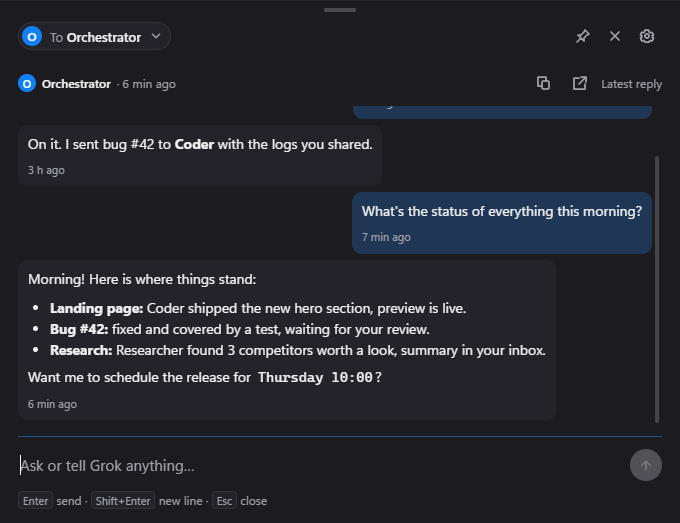
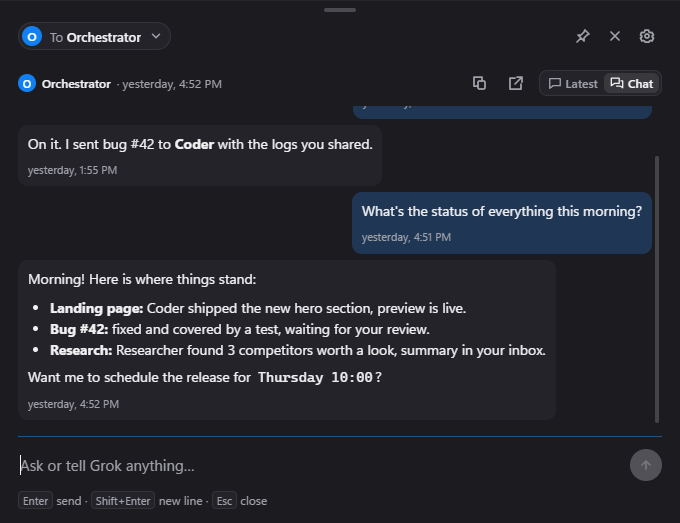
Replace the reply toggle with a Latest / Chat switch
The old text button showed the view you would switch to, not the one
you were in. Now both views are always visible as a segmented control
with the current one selected, plus Ctrl+L to toggle. Portuguese labels
are Resposta / Conversa. README screenshots refreshed.
Implemented by Codex; review and label tweak by Claude Code.

diff --git a/src/prompt/prompt.js b/src/prompt/prompt.js
@@ -94,7 +94,10 @@ const responseBody = document.getElementById('response-body');
 const responseTime = document.getElementById('response-time');
 const responseName = document.getElementById('response-name');
 const responseAvatar = document.getElementById('response-avatar');
-const conversationToggle = document.getElementById('conversation-toggle');
+const replyView = document.getElementById('reply-view');
+const latestView = document.getElementById('reply-latest');
+const chatView = document.getElementById('reply-chat');
+const replyViewIndicator = replyView.querySelector('.reply-view-indicator');
 const expandResponse = document.getElementById('expand-response');
 const emptyState = document.getElementById('empty-state');
 const emptyMessage = document.getElementById('empty-message');
@@ -366,6 +369,17 @@ function startRelativeTimer() {
   if (!document.hidden) relativeTimer = setInterval(updateTimes, 30000);
 }
 
+function positionReplyViewIndicator() {
+  if (response.hidden) return;
+  const selected = conversationView ? chatView : latestView;
+  replyViewIndicator.style.width = `${selected.offsetWidth}px`;
+  replyViewIndicator.style.transform = `translateX(${selected.offsetLeft}px)`;
+}
+
+const replyViewObserver = new ResizeObserver(positionReplyViewIndicator);
+replyViewObserver.observe(latestView);
+replyViewObserver.observe(chatView);
+
 function renderConversation(animate = false) {
   response.hidden = !conversation.ok || !conversation.latest;
   responseBody.replaceChildren();
@@ -374,8 +388,11 @@ function renderConversation(animate = false) {
   emptyMessage.textContent = grokBotFound ? t('prompt.empty', { bot: responseName.textContent }) : t('prompt.notFound');
   responseAvatar.textContent = destinationDetails.botInitial || 'G';
   responseAvatar.style.backgroundColor = destinationDetails.botColor || '#1080f3';
-  conversationToggle.textContent = conversationView ? t('prompt.latest') : t('prompt.conversation');
-  conversationToggle.setAttribute('aria-pressed', String(conversationView));
+  latestView.setAttribute('aria-checked', String(!conversationView));
+  latestView.tabIndex = conversationView ? -1 : 0;
+  chatView.setAttribute('aria-checked', String(conversationView));
+  chatView.tabIndex = conversationView ? 0 : -1;
+  positionReplyViewIndicator();
   responseBody.classList.toggle('collapsed', !userSized && !expanded && !conversationView);
   responseBody.classList.toggle('expanded', !userSized && (expanded || conversationView));
   expandResponse.hidden = userSized || conversationView;
@@ -468,9 +485,21 @@ function renderConversation(animate = false) {
   updateTimes();
 }
 
-conversationToggle.addEventListener('click', () => {
-  conversationView = !conversationView;
+function selectReplyView(showChat) {
+  if (conversationView === showChat) return;
+  conversationView = showChat;
   renderConversation();
+  if (replyView.contains(document.activeElement)) {
+    (showChat ? chatView : latestView).focus({ preventScroll: true });
+  }
+}
+
+latestView.addEventListener('click', () => selectReplyView(false));
+chatView.addEventListener('click', () => selectReplyView(true));
+replyView.addEventListener('keydown', (event) => {
+  if (event.key !== 'ArrowLeft' && event.key !== 'ArrowRight') return;
+  event.preventDefault();
+  selectReplyView(event.target === latestView);
 });
 expandResponse.addEventListener('click', () => {
   expanded = !expanded;
@@ -746,6 +775,10 @@ document.addEventListener('keydown', (event) => {
     event.preventDefault();
     closeTemplates(false);
     picker.open();
+  } else if (event.ctrlKey && event.key.toLowerCase() === 'l' && !event.altKey && !event.shiftKey && !event.metaKey
+      && !response.hidden && !pickerContainer.querySelector('.bot-picker-popover:not([hidden])')) {
+    event.preventDefault();
+    if (!event.repeat) selectReplyView(!conversationView);
   } else if (event.ctrlKey && event.key.toLowerCase() === 't' && !event.altKey && !event.shiftKey) {
     event.preventDefault();
     if (templateMenu.hidden) openTemplates();

diff --git a/src/prompt/prompt.html b/src/prompt/prompt.html
@@ -46,7 +46,17 @@
         <button id="open-bot" class="icon-button" type="button" data-i18n-aria-label="prompt.openConversation" aria-label="Open conversation in Grok Bot" data-i18n-title="prompt.openConversation" title="Open conversation in Grok Bot">
           <svg width="16" height="16" viewBox="0 0 16 16" fill="none" stroke="currentColor" aria-hidden="true"><path d="M9 2h5v5m0-5L7 9m0-6H2v11h11V9"/></svg>
         </button>
-        <button id="conversation-toggle" class="text-button" type="button" aria-pressed="false" data-i18n="prompt.conversation">Conversation</button>
+        <div id="reply-view" role="radiogroup" data-i18n-aria-label="prompt.replyView" aria-label="Reply view">
+          <span class="reply-view-indicator" aria-hidden="true"></span>
+          <button id="reply-latest" type="button" role="radio" aria-checked="true" tabindex="0" data-i18n-title="prompt.replyView.latestHelp" title="Latest reply (Ctrl+L)">
+            <svg width="14" height="14" viewBox="0 0 16 16" aria-hidden="true"><path d="M2 3h12v8H6l-4 3Z"/></svg>
+            <span data-i18n="prompt.replyView.latest">Latest</span>
+          </button>
+          <button id="reply-chat" type="button" role="radio" aria-checked="false" tabindex="-1" data-i18n-title="prompt.replyView.chatHelp" title="Recent conversation (Ctrl+L)">
+            <svg width="14" height="14" viewBox="0 0 16 16" aria-hidden="true"><path d="M1.5 2.5h9v6H5l-3.5 2.5Zm11 3h2v8l-3-2H7.5"/></svg>
+            <span data-i18n="prompt.replyView.chat">Chat</span>
+          </button>
+        </div>
       </div>
       <div id="response-body" class="collapsed"></div>
       <button id="expand-response" class="text-button" type="button" aria-expanded="false" data-i18n="prompt.more">Show more</button>

diff --git a/src/prompt/prompt.css b/src/prompt/prompt.css
@@ -45,7 +45,13 @@ footer { display: flex; align-items: center; gap: 10px; margin-top: 10px; color:
 #response-time { white-space: nowrap; }
 .text-button { padding: 3px 0; border: 0; background: transparent; color: var(--secondary); font-size: 12px; cursor: pointer; }
 .text-button:hover { color: var(--text); }
-#conversation-toggle { flex-shrink: 0; }
+#reply-view { position: relative; isolation: isolate; display: flex; flex-shrink: 0; height: 26px; margin-left: 2px; padding: 2px; border: 1px solid var(--border); border-radius: 8px; background: var(--surface); }
+#reply-view button { position: relative; z-index: 1; display: flex; align-items: center; gap: 4px; padding: 0 6px; border: 0; border-radius: 6px; background: transparent; color: var(--secondary); font-size: 12px; font-weight: 500; white-space: nowrap; }
+#reply-view button[aria-checked="true"], #reply-view button:hover { color: var(--text); }
+#reply-view button:focus-visible { outline-offset: 0; z-index: 2; }
+#reply-view svg { flex-shrink: 0; fill: none; stroke: currentColor; stroke-width: 1.5; stroke-linecap: round; stroke-linejoin: round; }
+.reply-view-indicator { position: absolute; inset: 2px auto 2px 0; border-radius: 6px; background: color-mix(in srgb, var(--text) 10%, var(--surface)); transition: transform var(--transition), width var(--transition); pointer-events: none; }
+@media (prefers-color-scheme: light) { .reply-view-indicator { background: white; box-shadow: var(--shadow-sm); } }
 #response-body { line-height: 1.55; font-size: 14px; overflow-wrap: anywhere; }
 #response-body.collapsed { max-height: 105px; overflow: hidden; }
 #response-body.collapsed.overflowing { mask-image: linear-gradient(to bottom, black 65%, transparent); }

diff --git a/src/lib/i18n.js b/src/lib/i18n.js
@@ -15,8 +15,11 @@
     'prompt.response': "Bot reply",
     'prompt.copy': "Copy reply",
     'prompt.openConversation': "Open conversation in Grok Bot",
-    'prompt.conversation': "Conversation",
-    'prompt.latest': "Latest reply",
+    'prompt.replyView': "Reply view",
+    'prompt.replyView.latest': "Latest",
+    'prompt.replyView.latestHelp': "Latest reply (Ctrl+L)",
+    'prompt.replyView.chat': "Chat",
+    'prompt.replyView.chatHelp': "Recent conversation (Ctrl+L)",
     'prompt.more': "Show more",
     'prompt.less': "Show less",
     'prompt.message': "Message to Grok Bot",
@@ -270,8 +273,11 @@
     'prompt.response': "Resposta do bot",
     'prompt.copy': "Copiar resposta",
     'prompt.openConversation': "Abrir conversa no Grok Bot",
-    'prompt.conversation': "Conversa",
-    'prompt.latest': "Última resposta",
+    'prompt.replyView': "Visualização da resposta",
+    'prompt.replyView.latest': "Resposta",
+    'prompt.replyView.latestHelp': "Última resposta (Ctrl+L)",
+    'prompt.replyView.chat': "Conversa",
+    'prompt.replyView.chatHelp': "Conversa recente (Ctrl+L)",
     'prompt.more': "Mostrar mais",
     'prompt.less': "Mostrar menos",
     'prompt.message': "Mensagem para o Grok Bot",

diff --git a/.handoff/TASK.md b/.handoff/TASK.md
@@ -1,51 +1,39 @@
-# Task 21 — Automatic updates with electron-updater (replaces the opt-in "check for updates")
+# Task 22 — Replace the "Conversation / Latest reply" toggle with a clear segmented control
 
-Read `AGENTS.md` first. `electron-updater@6.8.12` is **already installed** by Claude Code as a runtime dependency (reason: in-app automatic updates from GitHub Releases). Record that line in RESULT.md. Do not add anything else.
+Read `AGENTS.md` first.
+
+## Problem
+In the prompt's reply header there is a text button that flips between "Conversation" and "Latest reply". It shows the **mode you would switch to**, not the mode you are in, so users can't tell what they're looking at (when it says "Conversation" you are actually seeing the latest reply). It also looks like plain text, not a control.
 
 ## Goal
-Installed copies of Grok Bot Helper update themselves: check GitHub Releases, download in the background, install on quit, and let the user restart now. Today the app only has an opt-in check that opens the release page (`src/lib/update.js` + `checkForUpdate()` in `src/main.js`); **replace it** with electron-updater and keep the useful pieces (version helpers, safe URL check, i18n, tray item).
+A small **segmented control** that always shows both views, with the current one selected — the same visual language as the segmented controls in Settings (sliding selected pill).
 
 ## Files involved
-- `src/main.js`, `src/lib/update.js` (+ `test/update.test.js`), `src/lib/settings.js` (+ `test/settings.test.js`), `src/lib/i18n.js` (en + pt-BR), `src/settings/settings.html|css|js`, `src-settings preload` (`src/settings-preload.js`), `package.json` (`build.publish` only), `README.md` (Privacy/Network + Updates sections only), `CONTRIBUTING.md` (release steps only)
+- `src/prompt/prompt.html`, `src/prompt/prompt.css`, `src/prompt/prompt.js`, `src/lib/i18n.js` (en + pt-BR), `src/ui/tokens.css` only if a shared token is needed.
 
-## 1. Packaging (`package.json`)
-- Add to `build`: `"publish": [{ "provider": "github", "owner": "cremess", "repo": "grok-bot-helper", "releaseType": "release" }]`. This makes electron-builder write `app-update.yml` into the app and `latest.yml` next to the installer. Do **not** add publish tokens or scripts that upload anything.
-
-## 2. Settings (`src/lib/settings.js`)
-- Replace `checkForUpdates` with **`autoUpdate: true`** (boolean, default **true**). Migration in `normalizeSettings`: if `raw.autoUpdate` is a boolean use it; otherwise default `true` (ignore the old `checkForUpdates`). Keep `lastUpdateCheckMs` (finite ≥ 0).
-- Tests for default, explicit false, migration from an old file that only has `checkForUpdates`.
-
-## 3. Updater (`src/main.js` + pure helpers in `src/lib/update.js`)
-- Only when `app.isPackaged` (never in `npm start`). Use `const { autoUpdater } = require('electron-updater')`, required lazily inside the function that starts it (so dev runs and tests never load it).
-- Config: `autoUpdater.autoDownload = true`, `autoUpdater.autoInstallOnAppQuit = true`, `autoUpdater.allowPrerelease = false`, `autoUpdater.allowDowngrade = false`, logger off (no files written with user paths).
-- Schedule: first check ~30 s after startup, then every 6 h, only while `settings.autoUpdate` is true; turning it off stops the timer and turning it on starts it (and checks right away). Never two checks at the same time. Update `lastUpdateCheckMs` after each check.
-- **Test hook (loopback only):** if the environment variable `GROK_BOT_HELPER_UPDATE_FEED` is set **and** is an `http://127.0.0.1:<port>/…` or `http://localhost:<port>/…` URL (validate with a pure helper `isLoopbackFeed(url)` in `update.js`, with tests), call `autoUpdater.setFeedURL({ provider: 'generic', url })` before checking. Any other value is ignored. Document this in CONTRIBUTING (release section) as the way to test updates locally.
-- States kept in memory and exposed to the settings window: `idle`, `checking`, `available` (version), `downloading` (percent), `downloaded` (version), `up-to-date`, `error` (short code only; never show raw error text/paths).
-- When an update is **downloaded**: tray balloon "Update ready — Grok Bot Helper {version} will install when you quit. Restart now from the tray menu." (i18n), and the tray menu gets **"Restart to update to {version}"** at the top, which calls `autoUpdater.quitAndInstall(true, true)` (silent install, relaunch). Before calling it, set a flag so the app's own `before-quit`/`will-quit` handlers don't block quitting.
-- Keep the existing tray item "Update available…" only for the `available`/`downloading` states? No — remove the old "open release page" flow entirely; electron-updater handles downloading. Remove dead code (`checkForUpdate`, `openReleasePage`, `updateNotice` usage, `RELEASES_URL` fetch) and the corresponding tests that no longer apply; keep `parseVersion`/`compareVersions`/`isSafeReleaseUrl` only if still used (otherwise remove them and their tests).
-- No notification spam: show the balloon once per downloaded version.
-
-## 4. Settings UI
-- In the existing Updates row (or a new **Updates** group if none): toggle **"Automatic updates"** — help "Downloads new versions from GitHub and installs them when you quit."; a status line showing the current version and the state, e.g. "Version 0.3.0 · Up to date", "Downloading 0.3.1… 42%", "0.3.1 is ready — restart to update" with a **"Restart now"** button (only in the downloaded state); and a small **"Check now"** button (disabled while checking/downloading or when the toggle is off).
-- New IPC via `settings-preload.js`: `updateStatus()`, `checkForUpdates()`, `restartToUpdate()`, and an event `onUpdateStatus(callback)` pushed by main whenever the state changes. In dev (`!app.isPackaged`) the status is "Updates are only available in the installed app" and the buttons are disabled.
-- Welcome screen: add one quiet line under the welcome text: "Grok Bot Helper keeps itself up to date. You can turn this off below." (i18n).
-- Settings save/load includes `autoUpdate` (boolean; invalid → `invalid-option`).
-
-## 5. i18n
-- All new strings in **en and pt-BR**. Remove keys that are no longer used.
-
-## 6. Docs
-- `README.md`: in the privacy/network part, replace "no network requests by default" with an accurate statement: the only network request Grok Bot Helper makes by default is checking `github.com/cremess/grok-bot-helper` releases for updates (can be turned off in Settings → Automatic updates); OpenBot/Hermes behavior unchanged. Add a short **Updates** section: installed copies update automatically; the change takes effect after quitting or "Restart to update".
-- `CONTRIBUTING.md` release steps: bump version → `npm run dist` → create a GitHub release `vX.Y.Z` and upload **all three** files from `dist/`: `Grok-Bot-Helper-Setup-X.Y.Z.exe`, `Grok-Bot-Helper-Setup-X.Y.Z.exe.blockmap`, `latest.yml` (the updater needs `latest.yml`). Plus the local test recipe with `GROK_BOT_HELPER_UPDATE_FEED`.
+## Specification
+1. **Placement**: same place as today (right side of the reply header), after the copy and open-in-Grok-Bot icon buttons, separated from them by 8 px. Vertically centered with the header row.
+2. **Control**:
+   - Two segments, each with a 14 px SVG icon + short label:
+     - **Latest** (icon: a single message bubble) — shows the latest reply.
+     - **Chat** (icon: two overlapping bubbles) — shows the recent conversation.
+     - pt-BR labels: **Última** / **Conversa**.
+   - Height 26 px, font 12 px/500, container radius 8 px with `var(--surface)` background and 1 px `var(--border)`; 2 px inner padding.
+   - Selected segment: a pill (radius 6 px) with `var(--hover)`-like raised background (`color-mix(in srgb, var(--text) 10%, var(--surface))` in dark, white with `--shadow-sm` in light) and `var(--text)` color; unselected segments use `var(--secondary)` and get `var(--text)` on hover.
+   - The pill **slides** between segments (animate `transform`/`width` with the standard transition; respect `prefers-reduced-motion`).
+   - Accessibility: `role="radiogroup"` with `aria-label` ("Reply view" / "Visualização da resposta"); each segment is `role="radio"` with `aria-checked`, roving `tabindex` (only the selected one is tabbable), Left/Right arrow keys switch, Enter/Space select. Focus ring visible.
+   - Each segment has a `title` tooltip: "Latest reply" / "Recent conversation" (pt-BR: "Última resposta" / "Conversa recente").
+3. **Keyboard shortcut** in the prompt: `Ctrl+L` toggles between the two views (do not interfere when the bot picker is open). Add it to i18n and mention it in the tooltip, e.g. "Latest reply (Ctrl+L)".
+4. **Behavior** stays the same as today: switching views re-renders, the Chat view scrolls to the newest message, the "Show more" logic only applies to Latest, the user-sized layout still fills the space, the choice resets to Latest each time the prompt opens (current behavior). Remove the old toggle button, its i18n keys (`prompt.conversation`, `prompt.latest` if no longer used) and dead CSS.
+5. **Hide the control** when there is no conversation to show (same condition that hides the reply area today) and while waiting state shows only the sent bubble with no prior conversation.
+6. Update `README.md` mentions of the old toggle: "Switch to **Conversation** …" → "Use the **Latest / Chat** switch (or `Ctrl+L`) …"; and the Usage table gets a row for `Ctrl+L`.
 
 ## Acceptance criteria
-- `npm test` and `npm run check` pass.
-- `node -e "require('electron-updater')"` is never executed in tests; dev `npm start` never loads electron-updater.
-- No raw error messages or file paths shown to the user or written to disk by the updater.
+- `npm test` and `npm run check` pass (update tests that check i18n keys if needed; both locales must have the same keys).
+- No `innerHTML`; CSP unchanged.
 
 ## Do NOT
-- Do not add dependencies, upload releases, set tokens, run the app or build the installer. Do not commit or push.
-- Do not change behavior unrelated to updates.
+- Do not change anything else in the prompt or settings. Do not add dependencies, run the app, commit or push.
 
 ## When done
 Replace the whole content of `.handoff/RESULT.md` with the result of this task.

diff --git a/.handoff/RESULT.md b/.handoff/RESULT.md
@@ -1,31 +1,26 @@
-# Task 21 result
+# Task 22 result
 
-Implemented automatic updates for installed copies of Grok Bot Helper. Checks start after 30 seconds and repeat every six hours. Saving Automatic updates as enabled starts a check immediately. Checks and their downloads run one at a time. A downloaded update installs on quit, and the tray and Settings offer an immediate restart.
+Replaced the reply header toggle with a Latest / Chat radio group. The selected pill slides and resizes using the shared transition, and the shared reduced-motion rule disables the animation. The group supports Left and Right arrows and native Enter and Space activation. Ctrl+L switches views when the reply area is visible and the bot picker is closed.
+
+The prompt opens in Latest. Chat scrolls to the newest message, and Show more remains available only for overflowing replies in Latest at the automatic window size. The reply area and its switch are hidden when the prompt is waiting for its first reply.
 
 ## Changed files
 
-- `package.json` configures GitHub Releases as the update source through `build.publish`.
-- `src/main.js` initializes the updater on demand, schedules checks, saves the last check time, publishes status through Settings IPC, and handles the ready balloon and tray restart.
-- `src/lib/update.js` and `test/update.test.js` replace the release-page helpers and tests with loopback feed validation and coverage.
-- `src/lib/settings.js` and `test/settings.test.js` add `autoUpdate`, default it to true, preserve an explicit opt-out, ignore the legacy option, and retain valid last-check timestamps.
-- `src/settings-preload.js`, `src/settings/settings.html`, `src/settings/settings.css`, `src/settings/settings.js`, and `src/lib/i18n.js` add the localized switch, status, action buttons, and welcome text.
-- `README.md` describes update-related network access and installation behavior.
-- `CONTRIBUTING.md` documents the three release assets and the loopback test recipe.
-- `.handoff/RESULT.md` records this handoff.
-
-## Dependency
-
-- Claude Code already installed `electron-updater@6.8.12` as a runtime dependency for in-app automatic updates from GitHub Releases.
+- `src/prompt/prompt.html` adds the radio group and its two icon buttons.
+- `src/prompt/prompt.css` styles the control, focus ring, and sliding selection in both themes.
+- `src/prompt/prompt.js` updates selection, focus, pill geometry, and shortcut handling.
+- `src/lib/i18n.js` adds the group label, segment labels, and shortcut tooltips in English and Brazilian Portuguese and removes the old toggle keys.
+- `README.md` describes the switch and lists Ctrl+L in the Usage table.
+- `.handoff/RESULT.md` records the handoff.
 
 ## Verification
 
-- `npm test` passed all 206 tests.
+- `npm test` passed all 206 tests, including locale parity and renderer localization keys.
 - `npm run check` passed for all 53 JavaScript files.
 - `git diff --check` passed.
-- A Node simulation with a mock updater verified the development guard, startup and interval timing, opt-out and re-enabling, concurrent check prevention, loopback override, download progress, timestamp persistence, balloon deduplication, sanitized errors, and the restart arguments. It used an in-memory updater stub.
+- A Node simulation with fictional data verified selected state, roving tab order and arrow focus, click and Ctrl+L behavior, picker and waiting-state guards, Chat scrolling, Show more visibility, user-sized rendering, and reset on reopen.
+- Static checks confirmed the prompt CSP is identical to the previous version and that the prompt contains no `innerHTML`.
 
 ## Questions and limitations
 
-- No implementation blockers.
-- Saving the switch as off cancels future checks and prevents a pending lookup from initiating a download. A download already in progress can finish, and a ready update remains queued for installation on quit.
-- The packaged update flow and Windows UI still need an end-to-end check under the local release recipe. The task prohibited running the app or building the installer.
+- No implementation blockers. Visual behavior and native keyboard activation were reviewed in source. Live Electron verification was outside the task scope.

diff --git a/README.md b/README.md
@@ -28,7 +28,7 @@ On macOS, Grok Bot ships with a built-in quick prompt you can summon from anywhe
 ## Features
 
 - **Quick prompt from anywhere** — press `Alt+Space` (configurable) in any app, type, hit `Enter`. Your message goes straight to the bot you picked.
-- **See the reply right there** — the latest reply shows up in the prompt with proper formatting (lists, bold, code). Switch to **Conversation** to see the recent back-and-forth. If the bot answers in several messages, the prompt keeps reading until it stops writing, and notifies you once.
+- **See the reply right there** — the latest reply shows up in the prompt with proper formatting (lists, bold, code). Use the **Latest / Chat** switch (or `Ctrl+L`) to see the recent back-and-forth. If the bot answers in several messages, the prompt keeps reading until it stops writing, and notifies you once.
 - **Send the text you selected** (optional) — pick a shortcut in Settings, select text in any app and press it: the prompt opens with that text, ready to send. Off by default.
 - **Long messages, in parts** — Grok Bot links take up to 1000 characters. For longer messages the prompt offers **Send in N parts**: it splits at paragraphs or sentences, numbers each part `(1/N)`, and sends them one at a time, waiting for each to arrive. You can cancel midway.
 - **Prompt templates** — save snippets like *Summarize:* or *Translate to English:* in Settings, then press `Ctrl+T` in the prompt to put one at the start of your message.
@@ -133,6 +133,7 @@ Installed copies of Grok Bot Helper check for releases and download new versions
 | `Shift+Enter` | New line |
 | `Esc` or click outside | Closes the prompt (unless it's pinned) |
 | `Ctrl+K` | Pick another bot (or OpenBot agent) |
+| `Ctrl+L` | Switch between the latest reply and the recent conversation |
 | `Ctrl+T` | Insert a saved template at the start of the message (add templates in Settings) |
 | `↑` / `↓` in an empty prompt | Browse your previous prompts |
 | `Ctrl+,` | Open settings |

diff --git a/.handoff/HISTORY.md b/.handoff/HISTORY.md
@@ -29,3 +29,4 @@
 | 2026-11-23 | Release v0.1.0 | published (Claude) | Installer built and packaged app verified (launches, opens the prompt). A suspected shortcut regression was ruled out: the Windows session was locked, so simulated keys never reached any global hotkey, including the pre-rebrand build. README now links the download. |
 | 2026-11-24 | Review of PRs #1-#3 (@pepezin-ai) + v0.2.0 | accepted after security review (Claude) | Checked child processes (Hermes via hermes.exe only, shell:false, stdin; fixed PowerShell copy command), network (OpenBot loopback-only with hidden token; update check only GitHub API, opt-in) and opened links (validated). 210 tests, CI green, UI smoke test OK. Updated links after the GitHub username changed to cremess (update check would have rejected the new release URLs). |
 | 2026-11-24 | T23: automatic updates (electron-updater 6.8.12) | accepted (1st attempt) | 206 tests. End-to-end test on the real installed app: 0.3.0 found a local 0.3.1 feed, downloaded and verified it (sha512), Settings showed 'ready - restart to update', Restart now installed 0.3.1 silently and relaunched with settings preserved. Then reinstalled the real 0.3.0 and cleared test files. |
+| 2026-11-24 | T24: Latest/Chat segmented switch | accepted (1st attempt) + label tweak by Claude | Replaces the confusing text toggle that showed the other mode; Ctrl+L toggles. Captured en dark/light and pt-BR light. pt-BR 'Ultima' renamed to 'Resposta' at the maintainer's request. README screenshots refreshed. |
